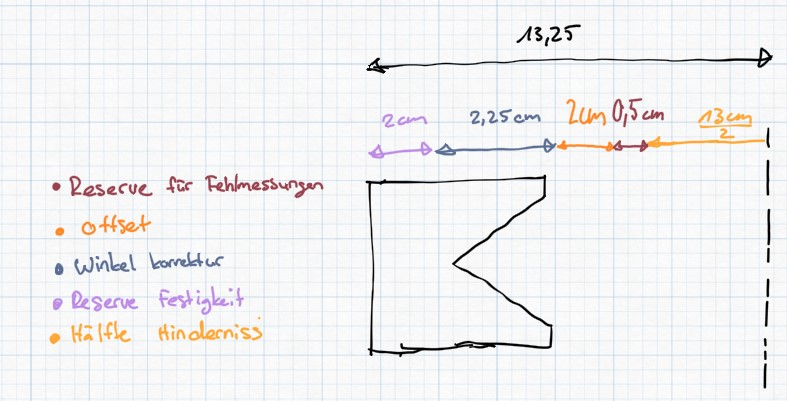
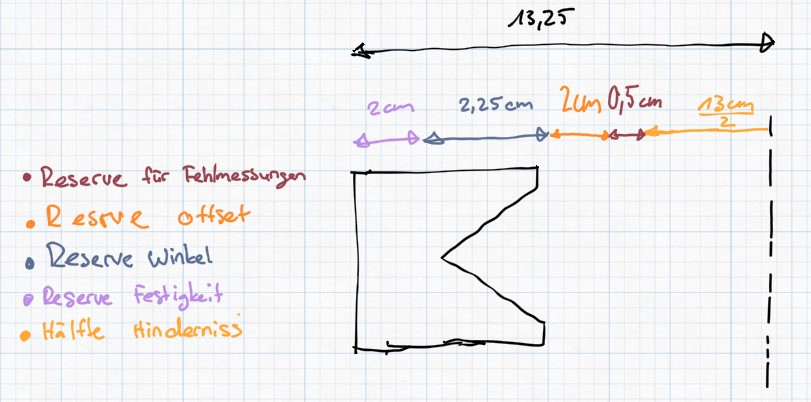
Changes from Overleaf

diff --git a/parts/3-loesungskonzept.tex b/parts/3-loesungskonzept.tex
@@ -78,8 +78,9 @@ Je nach neu erhaltener Information werden andere Anpassungen am Graphen vorgenom
 \subsection{Energiequelle}
 Aus der Technologierecherche hat sich herausgestellt, dass der LiPo-Akku der am besten geeignete Akku im Vergleich zu Li-Ion- und NiMH-Akkus ist. Dies liegt insbesondere an seiner höheren Leistungsdichte, besseren Leistungsabgabe und der Flexibilität in der Formgebung. Weitere Details dazu können im Anhang unter der Sektion Konzeptfindung \ref{subsec:Energiequelle} nachgelesen werden.
 
+\newpage
 \subsection{Aufnahme Hindernis}
-Wie bereits beschrieben wurde das Greifkonzept: Klemme seitlich ausgewählt (siehe \ref{loesungsvariante_Simpel}).
+Wie bereits beschrieben wurde das Greifkonzept "Klemme seitlich" ausgewählt (siehe \ref{loesungsvariante_Simpel}).
 Damit dieses erfolgreich umgesetzt werden kann, wurden Dimensionen vom Greifer definiert  sowie ein passendes Konzept für den Mechanismus gefunden. Zusätzlich wurde der hebe Mechanismus und der Greifmechanismus so konstruiert das es mit einem linear Motor angesteuert werden kann.
 Die Recherche und Entscheidungen die zu diesen ausgearbeiteten Konzept geführt hat sind im Anhang: \ref{hier muss noch ein Anhang hin} ersichtlich.
 
@@ -107,11 +108,19 @@ Damit kann $b$ ausgerechnet werden:
 b = 13cm * sin(15) = 3.36cm
 \]
 
-Damit genügend Sicherheit hierbei eingerechnet wird haben wir uns entschieden $b = 4$
+Damit genügend Sicherheit hierbei eingerechnet wird, haben wir uns entschieden $b = 4.5cm$ zu machen. Dies wird uns helfen Fehler in der Distanzmessung auszugleichen.
+
+$\varphi$ wurde 90° gewählt, dies ist vorläufig eine Annahme und muss zu einem späteren Zeitpunkt getestet werden.
+
+\paragraph{Abstand der Klemmen}
 
 
+\newpage
 \subsubsection{Funktionalitäten}
 Greifen -> Heben -> absetzen -> Loslasasen
+korrektur Distanz
+Korrektur Winkel
+Korrektur Offset
 
 \
 
